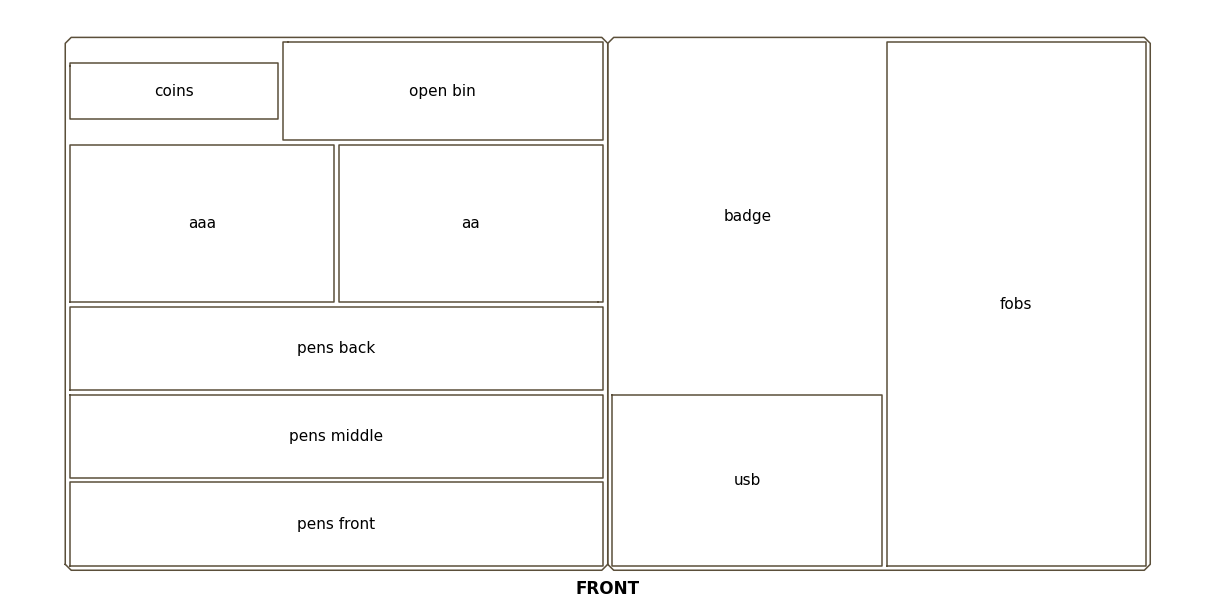
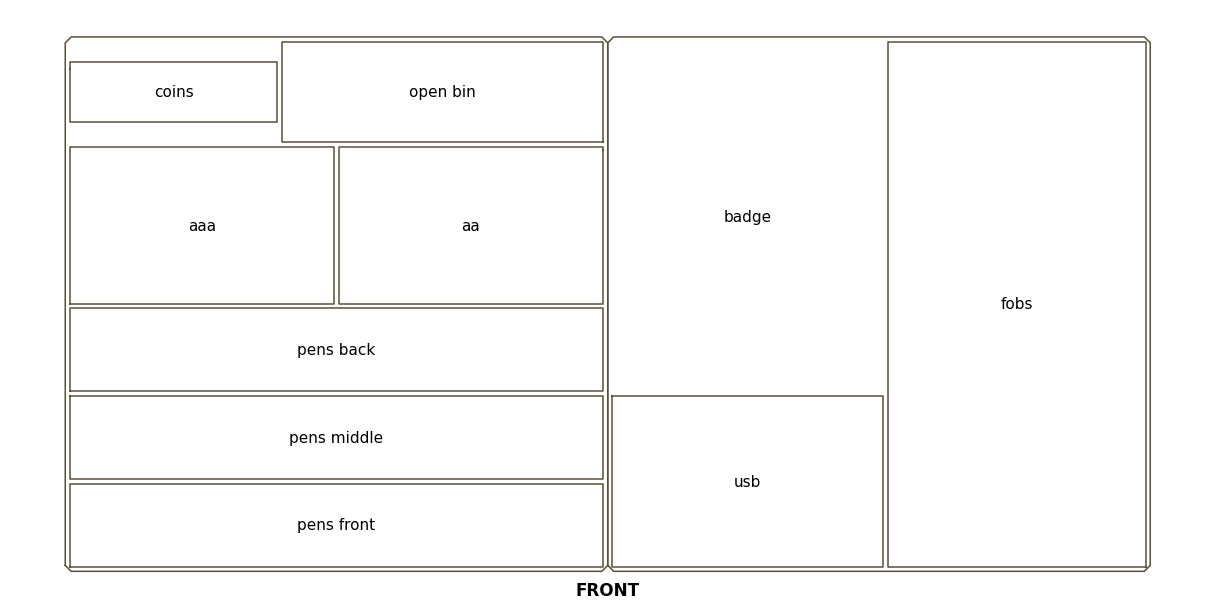
Tray insert: grow 1 mm per side over the first fit test, as asked
The first outlines sat about 1 mm loose on every side. Rev 2 only took up
0.5 mm per side; this takes up the full 1 mm (pair 366.5 x 180.5).

diff --git a/desk-drawer-tray-insert/test_create_insert.py b/desk-drawer-tray-insert/test_create_insert.py
@@ -41,12 +41,13 @@ FIT_TESTED = (364.5, 178.5)     # printed 2026-09-23: fit, but ~1 mm loose all a
 
 def test_the_halves_take_up_the_looseness_the_fit_test_showed():
     """The measured tray (365.5 x 179.5) is evidently a little bigger than measured:
-    outlines built 1 mm under it dropped in with ~1 mm to spare. Richard: "just do
-    1mm" -- so the pair grows 1 mm each way over what was fit-tested."""
+    outlines built 1 mm under it dropped in with ~1 mm to spare on every side.
+    Richard: "1mm ... on all sides" -- so the pair grows 1 mm per side (2 mm each
+    way) over what was fit-tested."""
     across = HALVES["left"].extents[0] + HALVES["right"].extents[0]
     front_to_back = max(m.extents[1] for m in HALVES.values())
-    assert math.isclose(across, FIT_TESTED[0] + 1.0, abs_tol=0.02), f"{across:.2f} mm across"
-    assert math.isclose(front_to_back, FIT_TESTED[1] + 1.0, abs_tol=0.02), f"{front_to_back:.2f} mm deep"
+    assert math.isclose(across, FIT_TESTED[0] + 2.0, abs_tol=0.02), f"{across:.2f} mm across"
+    assert math.isclose(front_to_back, FIT_TESTED[1] + 2.0, abs_tol=0.02), f"{front_to_back:.2f} mm deep"
 
 
 def test_walls_stay_below_the_rim():

diff --git a/desk-drawer-tray-insert/create_insert.py b/desk-drawer-tray-insert/create_insert.py
@@ -35,10 +35,12 @@ from trimesh_helpers import from_manifold, to_manifold  # noqa: E402
 # The tray (measured inside) and how the insert sits in it (mm)
 # ---------------------------------------------------------------------------
 TRAY_W, TRAY_D, TRAY_H = 365.5, 179.5, 30.0
-CLEAR = 0.0                         # per side; the 0.5 fit test (2026-09-23) sat ~1 mm loose
-INSERT_W = TRAY_W - 2 * CLEAR       # 365.5
-INSERT_D = TRAY_D - 2 * CLEAR       # 179.5
-HALF_W = INSERT_W / 2.0             # 182.75 -- each half fits the 256 bed
+CLEAR = -0.5                        # per side, vs the MEASURED tray: the first fit test
+                                    # (CLEAR 0.5) sat ~1 mm loose on every side, so the tray
+                                    # is bigger than measured -- grow 1 mm per side over it
+INSERT_W = TRAY_W - 2 * CLEAR       # 366.5
+INSERT_D = TRAY_D - 2 * CLEAR       # 180.5
+HALF_W = INSERT_W / 2.0             # 183.25 -- each half fits the 256 bed
 HEIGHT = TRAY_H - 1.0               # stop 1 mm under the rim so the drawer closes
 FLOOR = 1.2
 WALL = 1.6

diff --git a/desk-drawer-tray-insert/README.md b/desk-drawer-tray-insert/README.md
@@ -2,7 +2,7 @@
 
 A two-piece divider insert for the wooden tray in the credenza drawer. The tray is
 365.5 × 179.5 × 30 mm inside. That's too long for the P2S bed, so the insert
-prints as two halves of 182.75 × 179.5 × 29 mm that sit side by side. The tray's
+prints as two halves of 183.25 × 180.5 × 29 mm that sit side by side. The tray's
 own walls hold them together, so they need no joint.
 
 ![layout](preview-layout.png)
@@ -18,10 +18,10 @@ Front is at the bottom of the picture: the side nearest you with the drawer open
 | open bin | 108 × 33 | small odds and ends |
 | badge | 91 × 117, 12 deep | badge in its holder (110 × 70) standing upright, credit cards on top; raised floor with a finger dip on each long side |
 | usb | 91 × 58 | USB sticks and SD cards; its back wall lines up with the left half's wall behind the second pen channel |
-| fobs | 87 × 176 | both car key fobs (95 × 55 and 80 × 50) end to end, no divider |
+| fobs | 87 × 177 | both car key fobs (95 × 55 and 80 × 50) end to end, no divider |
 
 Either half can be turned 180° or swapped with the other. A 90° turn won't
-fit, because the half is 3.25 mm longer than the tray is deep.
+fit, because the half is about 3 mm longer than the tray is deep.
 
 ## Files
 
@@ -42,8 +42,9 @@ fit, because the half is 3.25 mm longer than the tray is deep.
 
 1. **Fit test first**, in any spare filament. Print both outlines, drop them into
    the tray side by side, then set both key fobs in the right-hand lane. The
-   first fit test (2026-09-23, `CLEAR` 0.5 mm per side) sat about 1 mm loose, so
-   `CLEAR` is now 0 and the halves are the tray's measured size. If they bind,
+   first fit test (2026-09-23, `CLEAR` 0.5 mm per side) sat about 1 mm loose on
+   every side, so `CLEAR` is now -0.5: the halves are 1 mm per side bigger than
+   that test, and 0.5 mm per side bigger than the tray as measured. If they bind,
    raise `CLEAR`; if they still rattle, lower it.
 2. **The halves:** Bambu PLA Wood, White Oak, the closest match to the tray's
    pale wood. Dry it first (the wood powder takes on moisture), and use the
